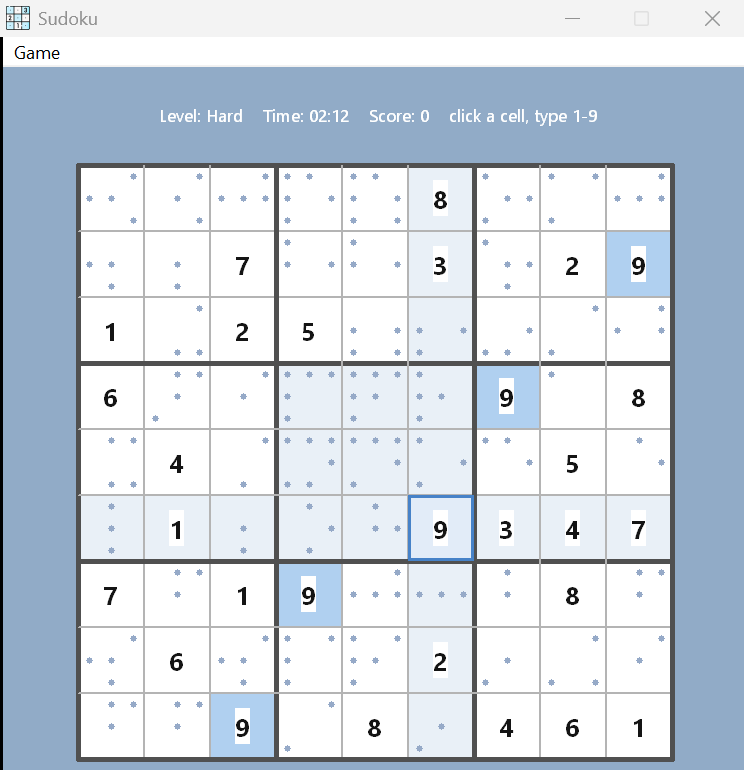
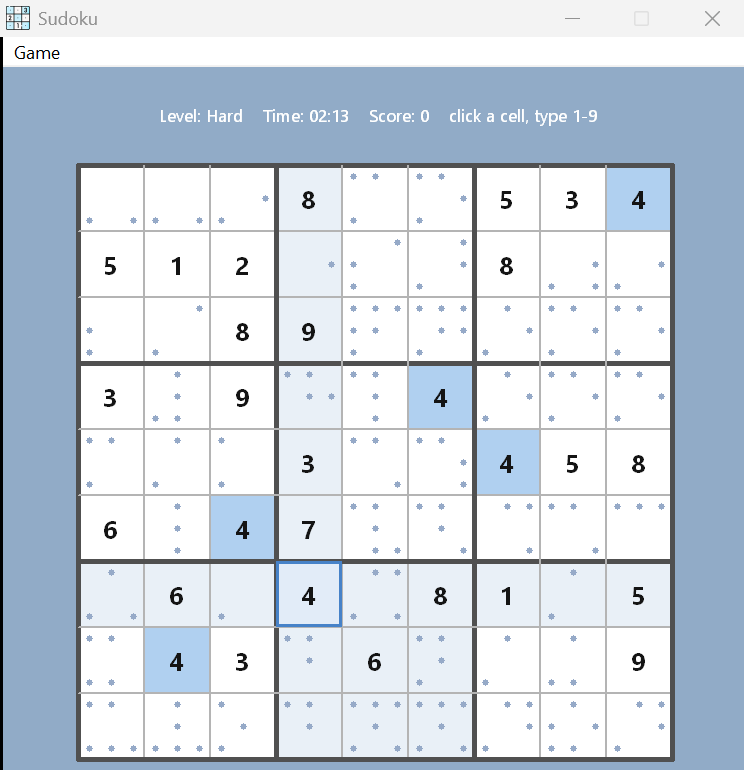
Remove the opaque box behind digits
Draw the board with a transparent text background so each digit sits
directly on its cell. Previously DrawText filled an opaque rectangle behind
every digit, which showed up as a white box on the highlighted cells. The
white board and palette are unchanged; only the per-digit box is gone.

diff --git a/gui_sudoku/src/sudoku_gui.c b/gui_sudoku/src/sudoku_gui.c
@@ -87,6 +87,10 @@ static void drawPencilDots(HDC hdc, const RECT *cr,
 
 void drawBoard(HDC hdc, struct Game *s1, struct Gui *g1)
 {
+    /* Draw text with a transparent background so each digit sits directly on
+       its cell (no opaque "box" behind it, even on highlighted cells). */
+    SetBkMode(hdc, TRANSPARENT);
+
     int board[SUDOKU_DIM][SUDOKU_DIM];
     computeBoard(s1, board);
     int cell = g1->cell;
